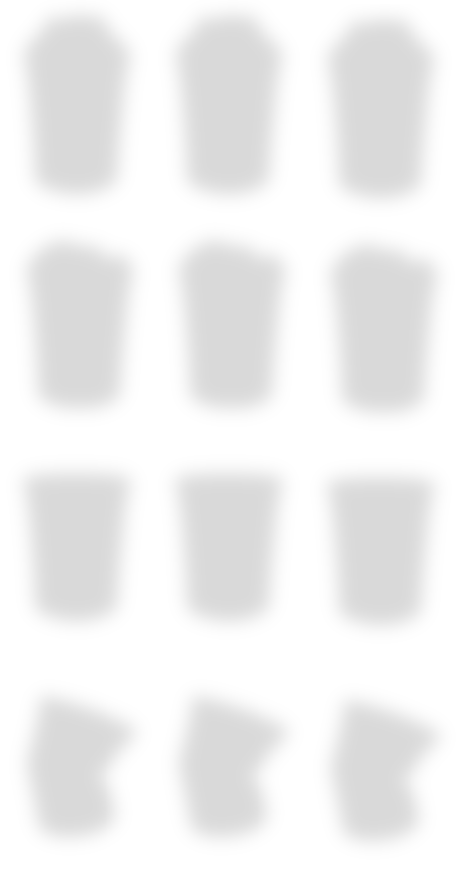
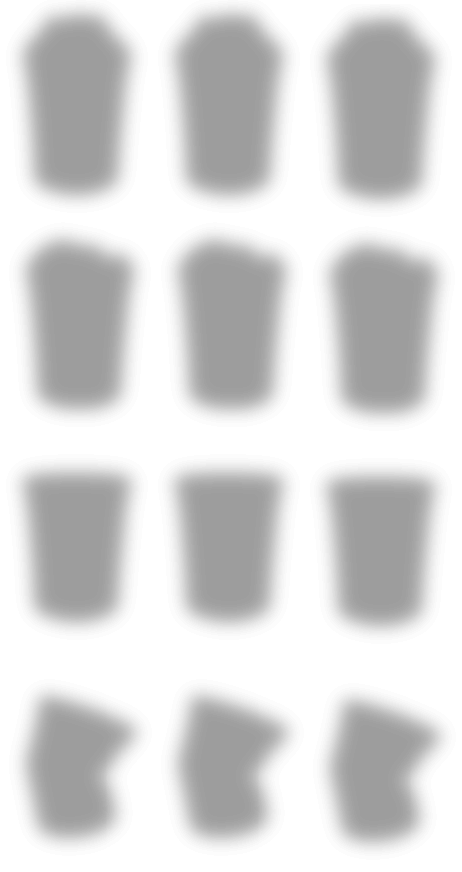
Update.

diff --git a/Classes/Resources.cpp b/Classes/Resources.cpp
@@ -34,14 +34,14 @@ const char* Resources::R_MENU_SHOP = "btn-shop@2x.png";
 const char* Resources::R_MENU_SHADOW = "dark-line@2x.png";
 
 const char* Resources::R_GAME_CORN = "game-corn@2x.png";
-const char* Resources::R_GAME_CORN_SHADOW = "game-corn@2x.png";
+const char* Resources::R_GAME_CORN_SHADOW = "game-corn-shdw@2x.png";
 
 const char* Resources::R_SCREENS_LINES = "preload-lines@2x.png";
 const char* Resources::R_SCREENS_POPCORN = "preload-bar-sprite@2x.png";
 
 const char* Resources::R_LEVEL_BACKGROUND = "level-bg@2x.png";
 const char* Resources::R_LEVEL_BUCKET = "bucket@2x.png";
-const char* Resources::R_LEVEL_BUCKET_SHADOW = "bucket-shadows@2x.png";
+const char* Resources::R_LEVEL_BUCKET_SHADOW = "bucket-shdw@2x.png";
 const char* Resources::R_LEVEL_DUST = "process-dust@2x.png";
 const char* Resources::R_LEVEL_PAUSE = "process-pause@2x.png";
 const char* Resources::R_LEVEL_BUCKETICON = "process-bucket-icon@2x.png";

diff --git a/Classes/Entities/Entity.cpp b/Classes/Entities/Entity.cpp
@@ -136,8 +136,6 @@ Entity::Entity(const char* pszFileName, int pHorizontalFramesCount, int pVertica
 void Entity::setShadowed(const char* pTextureFileName)
 {
     this->mShadow = new Entity(pTextureFileName, this->mHorizontalFramesCount, this->mVerticalFramesCount, this->getParent());
-    this->mShadow->setColor(ccc3(0.0f, 0.0f, 0.0f));
-    this->mShadow->setOpacity(210.0f);
     
     this->mIsShadowed = true;
 }
